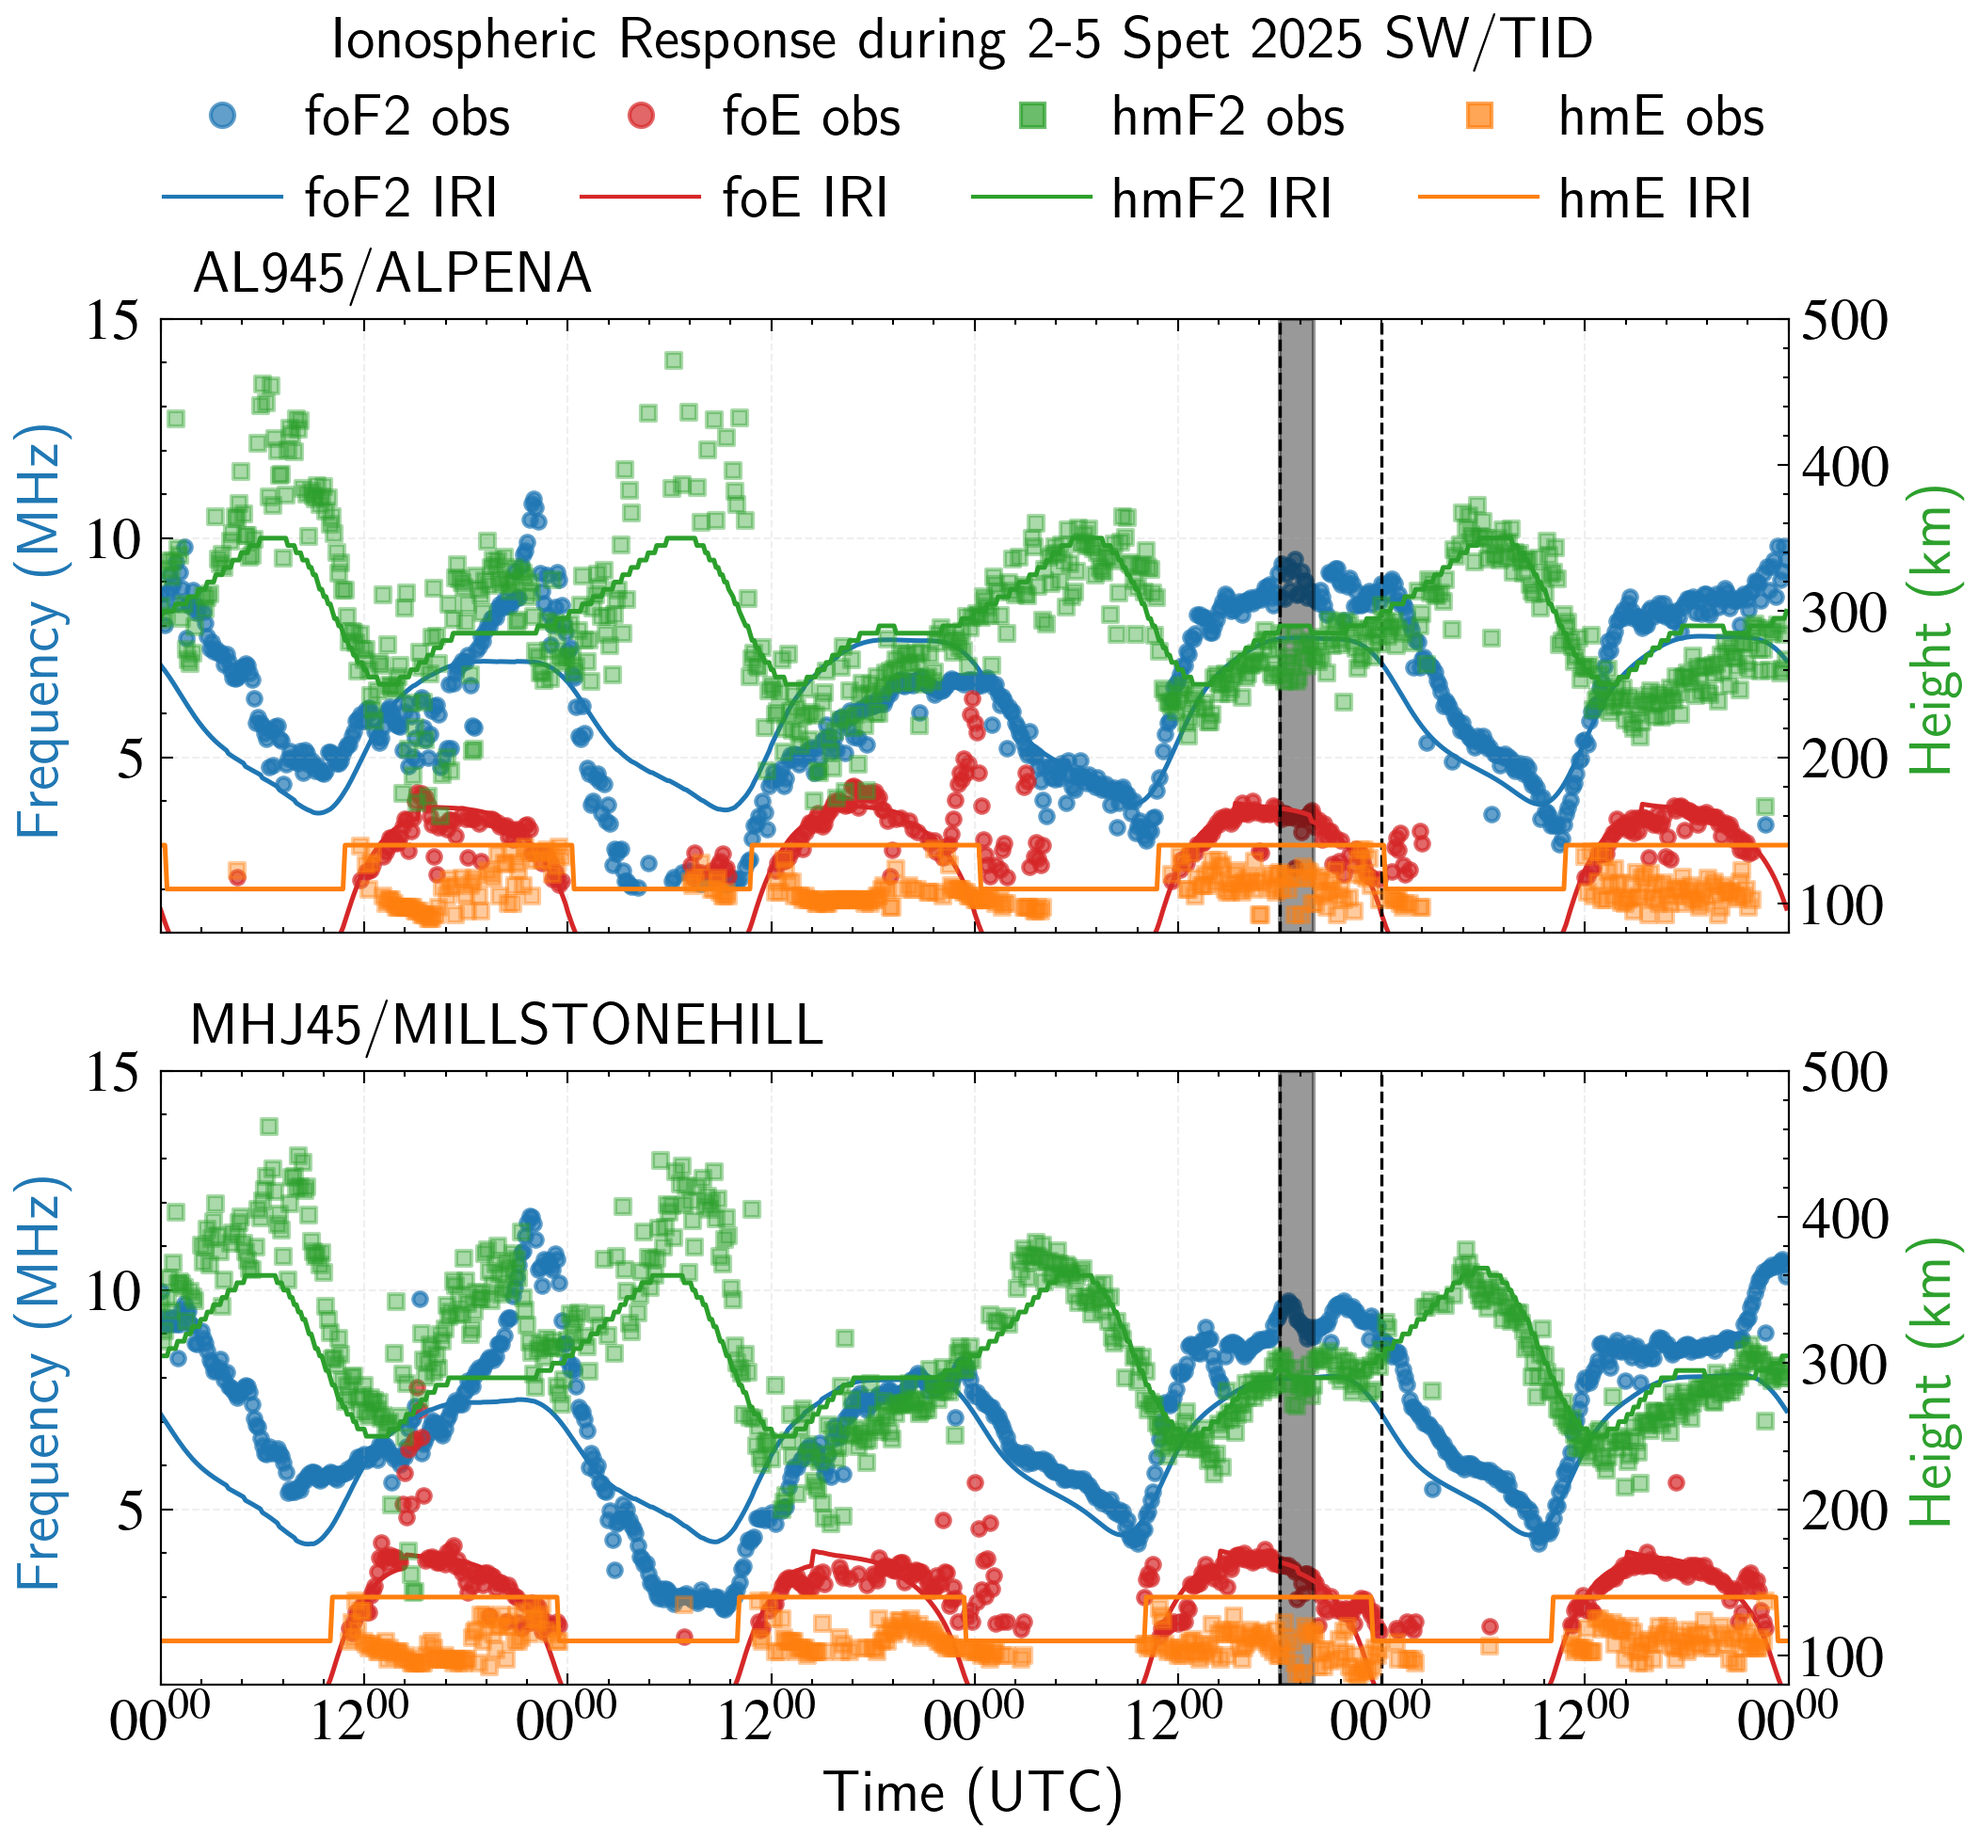
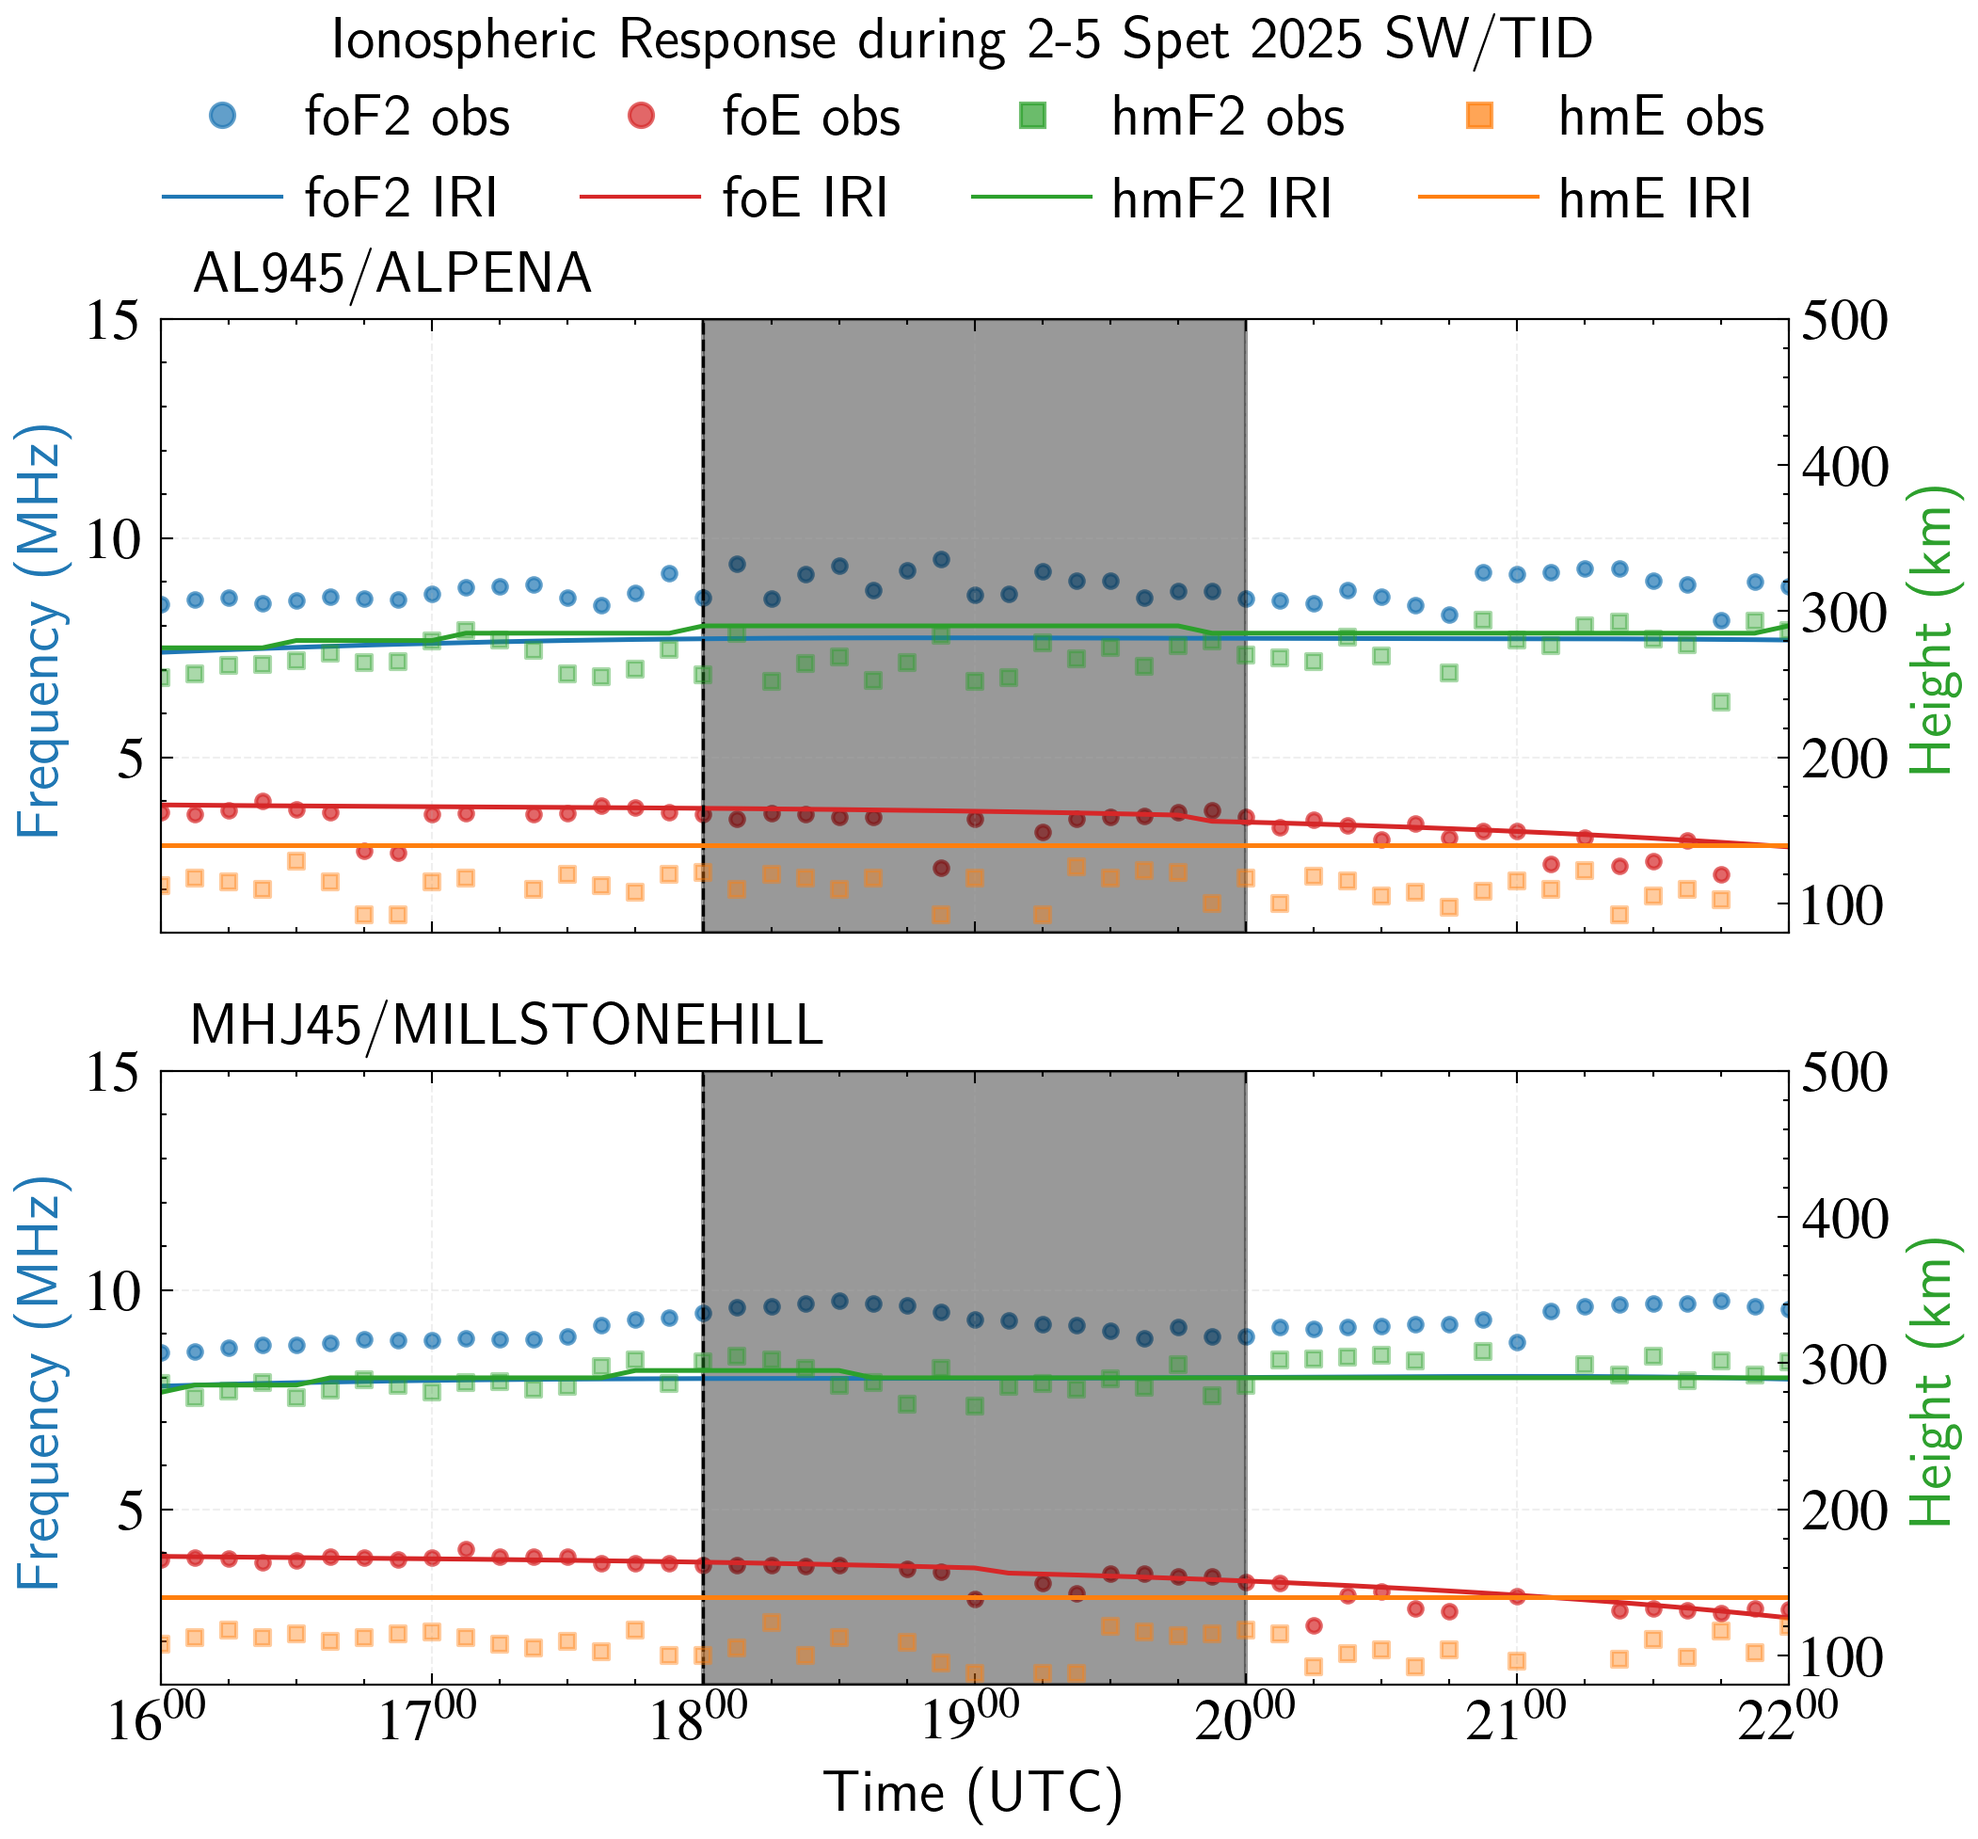
Updated plots

diff --git a/rt_mstid_2025/py/contours.py b/rt_mstid_2025/py/contours.py
@@ -206,6 +206,7 @@ def plot_station_panel(ax, scaled, profile, iri_series, stn_info, time_limits):
     
     ax.set_yscale("log")
     # ax.set_ylim(100, 500)
+    print(">>>>>>>>>>>>>>>>>>>>>>>>", time_limits)
     ax.set_xlim(time_limits)
     ax.xaxis.set_major_locator(mdates.AutoDateLocator())
     ax.xaxis.set_major_formatter(DateFormatter("%H"))
@@ -219,10 +220,10 @@ def plot_station_panel(ax, scaled, profile, iri_series, stn_info, time_limits):
     ax.axvspan(dt.datetime(2025, 9, 4, 18), dt.datetime(2025, 9, 4, 20), alpha=0.2, color="k")
 
 def main():
-    target_date = dt.date(2025, 9, 2)
+    target_date = dt.datetime(2025, 9, 4)
     time_limits = (
-        dt.datetime.combine(target_date, dt.time.min),
-        dt.datetime.combine(target_date + dt.timedelta(days=4), dt.time.min),
+        target_date + dt.timedelta(0),
+        target_date + dt.timedelta(4),
     )
 
     station_files = discover_station_files(target_date.year)

diff --git a/rt_mstid_2025/py/scaled_ion_params.py b/rt_mstid_2025/py/scaled_ion_params.py
@@ -184,10 +184,10 @@ def build_legend(fig):
 
 
 def main():
-    target_date = dt.datetime(2025, 9, 2)
+    target_date = dt.datetime(2025, 9, 4)
     time_limits = (
-        target_date + dt.timedelta(0),
-        target_date + dt.timedelta(4),
+        target_date + dt.timedelta(hours=16),
+        target_date + dt.timedelta(hours=22),
     )
 
     station_files = discover_station_files(target_date.year)
